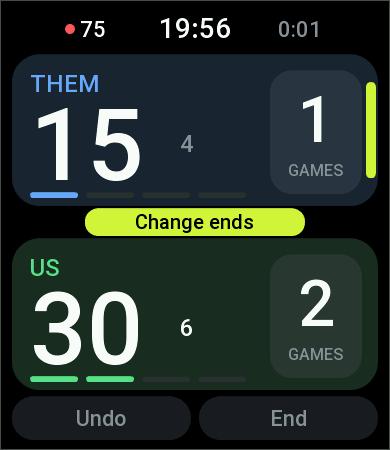
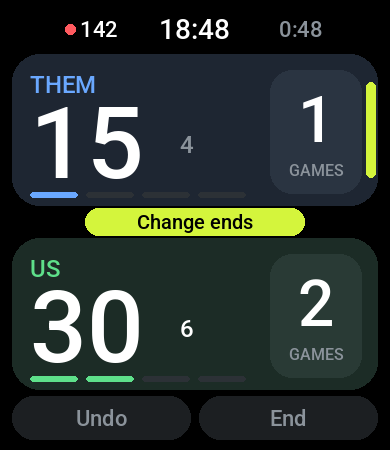
README pictures drawn from the current app
Serve, match and options were simulator screenshots of an older version (round racket head).
All README screens are now recorded on the simulated watch (tools/screens.mjs), so a rerun of
tools/readme_art.py always shows the current app; the bare screens still land in
docs/images/screenshots.

diff --git a/tools/readme_art.py b/tools/readme_art.py
@@ -1,9 +1,9 @@
 # Draws the pictures for the GitHub README: the banner (also used as the repo's social preview, with
-# an Active 3 behind the Bip 6) and each screen in a Bip 6 watch frame. Serve, match and options are
-# simulator screenshots in docs/images/screenshots. The start screen and the training are drawn
-# from the widgets that tools/screens.mjs records on the simulated watch, the racket spin
-# (docs/images/watch/serve-spin.webp, animated) from those of tools/serve_spin.mjs, both in Roboto
-# like the simulator's font (downloaded once into ~/.cache/padelpunto).
+# an Active 3 behind the Bip 6) and each screen in a Bip 6 watch frame. The screens are drawn from
+# the widgets that tools/screens.mjs records on the simulated watch, so they always show the current
+# app; the racket spin (docs/images/watch/serve-spin.webp, animated) from those of
+# tools/serve_spin.mjs. Both in Roboto like the simulator's font (downloaded once into
+# ~/.cache/padelpunto). The bare screens go to docs/images/screenshots.
 # Usage: python3 tools/readme_art.py   (writes docs/images/banner.png and docs/images/watch/*.png)
 import json
 import math
@@ -172,9 +172,8 @@ def banner():
     # supported watches, small and quiet at the bottom
     d.text((x, 604), 'Bip 6 · Active 2 (Square) · Bip Max', font=font(19, 'Regular'), fill=(92, 99, 107))
 
-    shot = lambda n: Image.open(os.path.join(SHOTS, f'{n}.png'))
     place(img, round_watch(recorded()['start'], 0.6), 660, 120, angle=9)
-    place(img, watch(shot('match'), 0.8), 850, 82, angle=-5)
+    place(img, watch(recorded()['match'], 0.8), 850, 82, angle=-5)
     return img.convert('RGB')
 
 # ---- drawing recorded widgets like the watch (only the kinds the recorded pages use) ----
@@ -262,9 +261,10 @@ def serve_spin(k=0.8):
 if __name__ == '__main__':
     os.makedirs(os.path.join(IMAGES, 'watch'), exist_ok=True)
     banner().save(os.path.join(IMAGES, 'banner.png'), optimize=True)
-    for n in ('serve', 'match', 'options'):
-        watch(Image.open(os.path.join(SHOTS, f'{n}.png'))).save(os.path.join(IMAGES, 'watch', f'{n}.png'), optimize=True)
+    os.makedirs(SHOTS, exist_ok=True)
     for n, screen in recorded().items():
+        # the bare screen (390x450), for tools/store_art.py, and the screen in a watch frame
+        screen.convert('RGB').save(os.path.join(SHOTS, f'{n}.png'), optimize=True)
         watch(screen).save(os.path.join(IMAGES, 'watch', f'{n}.png'), optimize=True)
     frames, ms = serve_spin()
     # WebP: a tenth of the size of an animated PNG, with smooth (alpha) edges unlike a GIF

diff --git a/docs/DEVELOPMENT.md b/docs/DEVELOPMENT.md
@@ -27,7 +27,6 @@ python3 tools/logo.py assets/default.s    # redraw logo, app icon and the spinni
 ~/.cache/padelpunto/tts/bin/python tools/voice.py <voices-dir> assets/default.s   # regenerate the score-call words (setup at the top of the file; licenses in CREDITS.md)
 ```
 
-`python3 tools/readme_art.py` redraws the banner and the watch pictures for the README. Serve, match and options come from `docs/images/screenshots/` (simulator screenshots, 390×450).
-The start screen and the training (`tools/screens.mjs`) and the animated racket spin (`serve-spin.webp`, `tools/serve_spin.mjs`) are recorded on the simulated watch and drawn in Roboto, which the script downloads once into `~/.cache/padelpunto`.
+`python3 tools/readme_art.py` redraws the banner and the watch pictures for the README from the current app: the screens (`tools/screens.mjs`) and the animated racket spin (`serve-spin.webp`, `tools/serve_spin.mjs`) are recorded on the simulated watch and drawn in Roboto, which the script downloads once into `~/.cache/padelpunto`. The bare screens (390×450) land in `docs/images/screenshots/`.
 
 ← [Back to the README](../README.md)
